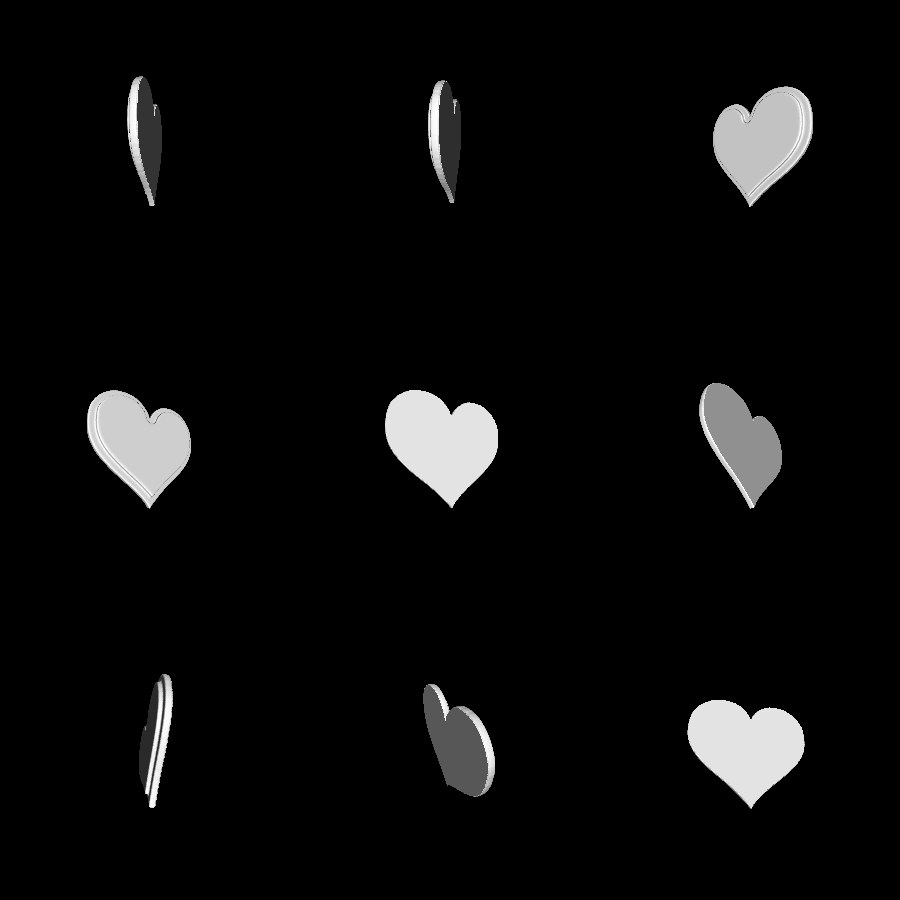
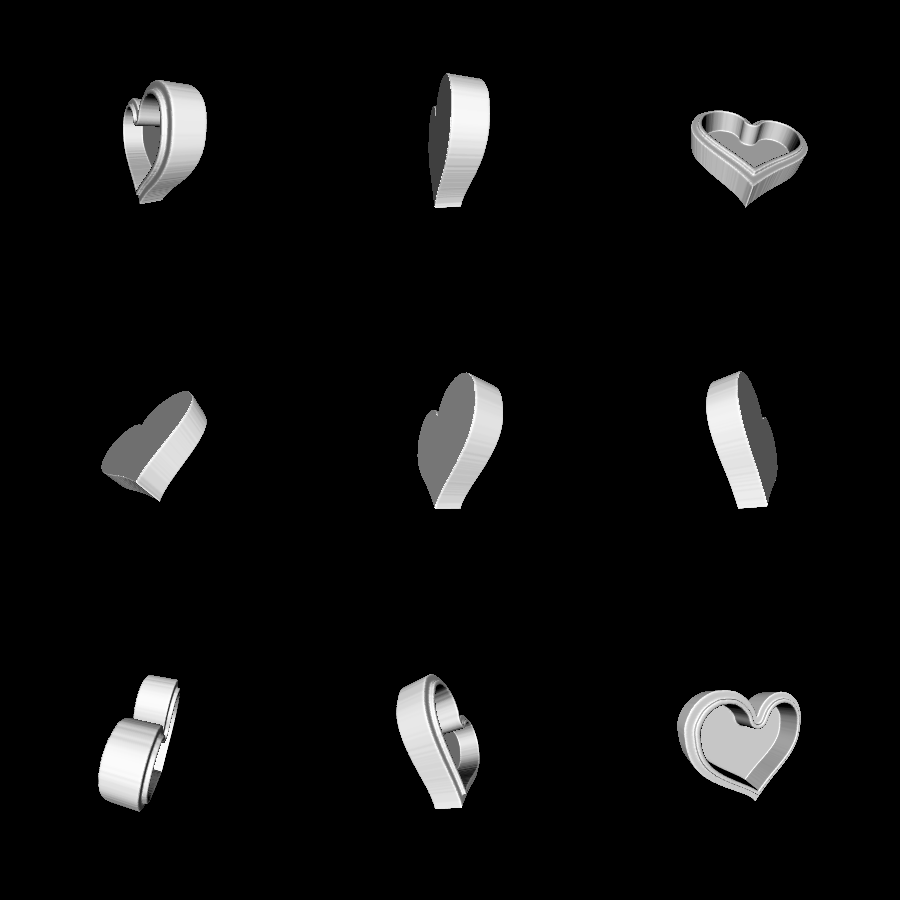
use mesh bluring in heart_box demo

diff --git a/examples/romantic/heart_box/main.go b/examples/romantic/heart_box/main.go
@@ -25,7 +25,7 @@ const (
 
 func main() {
 	outline := model2d.MeshToCollider(
-		model2d.MustReadBitmap("outline.png", nil).FlipY().Mesh(),
+		model2d.MustReadBitmap("outline.png", nil).FlipY().Mesh().Blur(0.5).Blur(0.5),
 	)
 	sections := model2d.MeshToCollider(
 		model2d.MustReadBitmap("sections.png", nil).FlipY().Mesh(),
